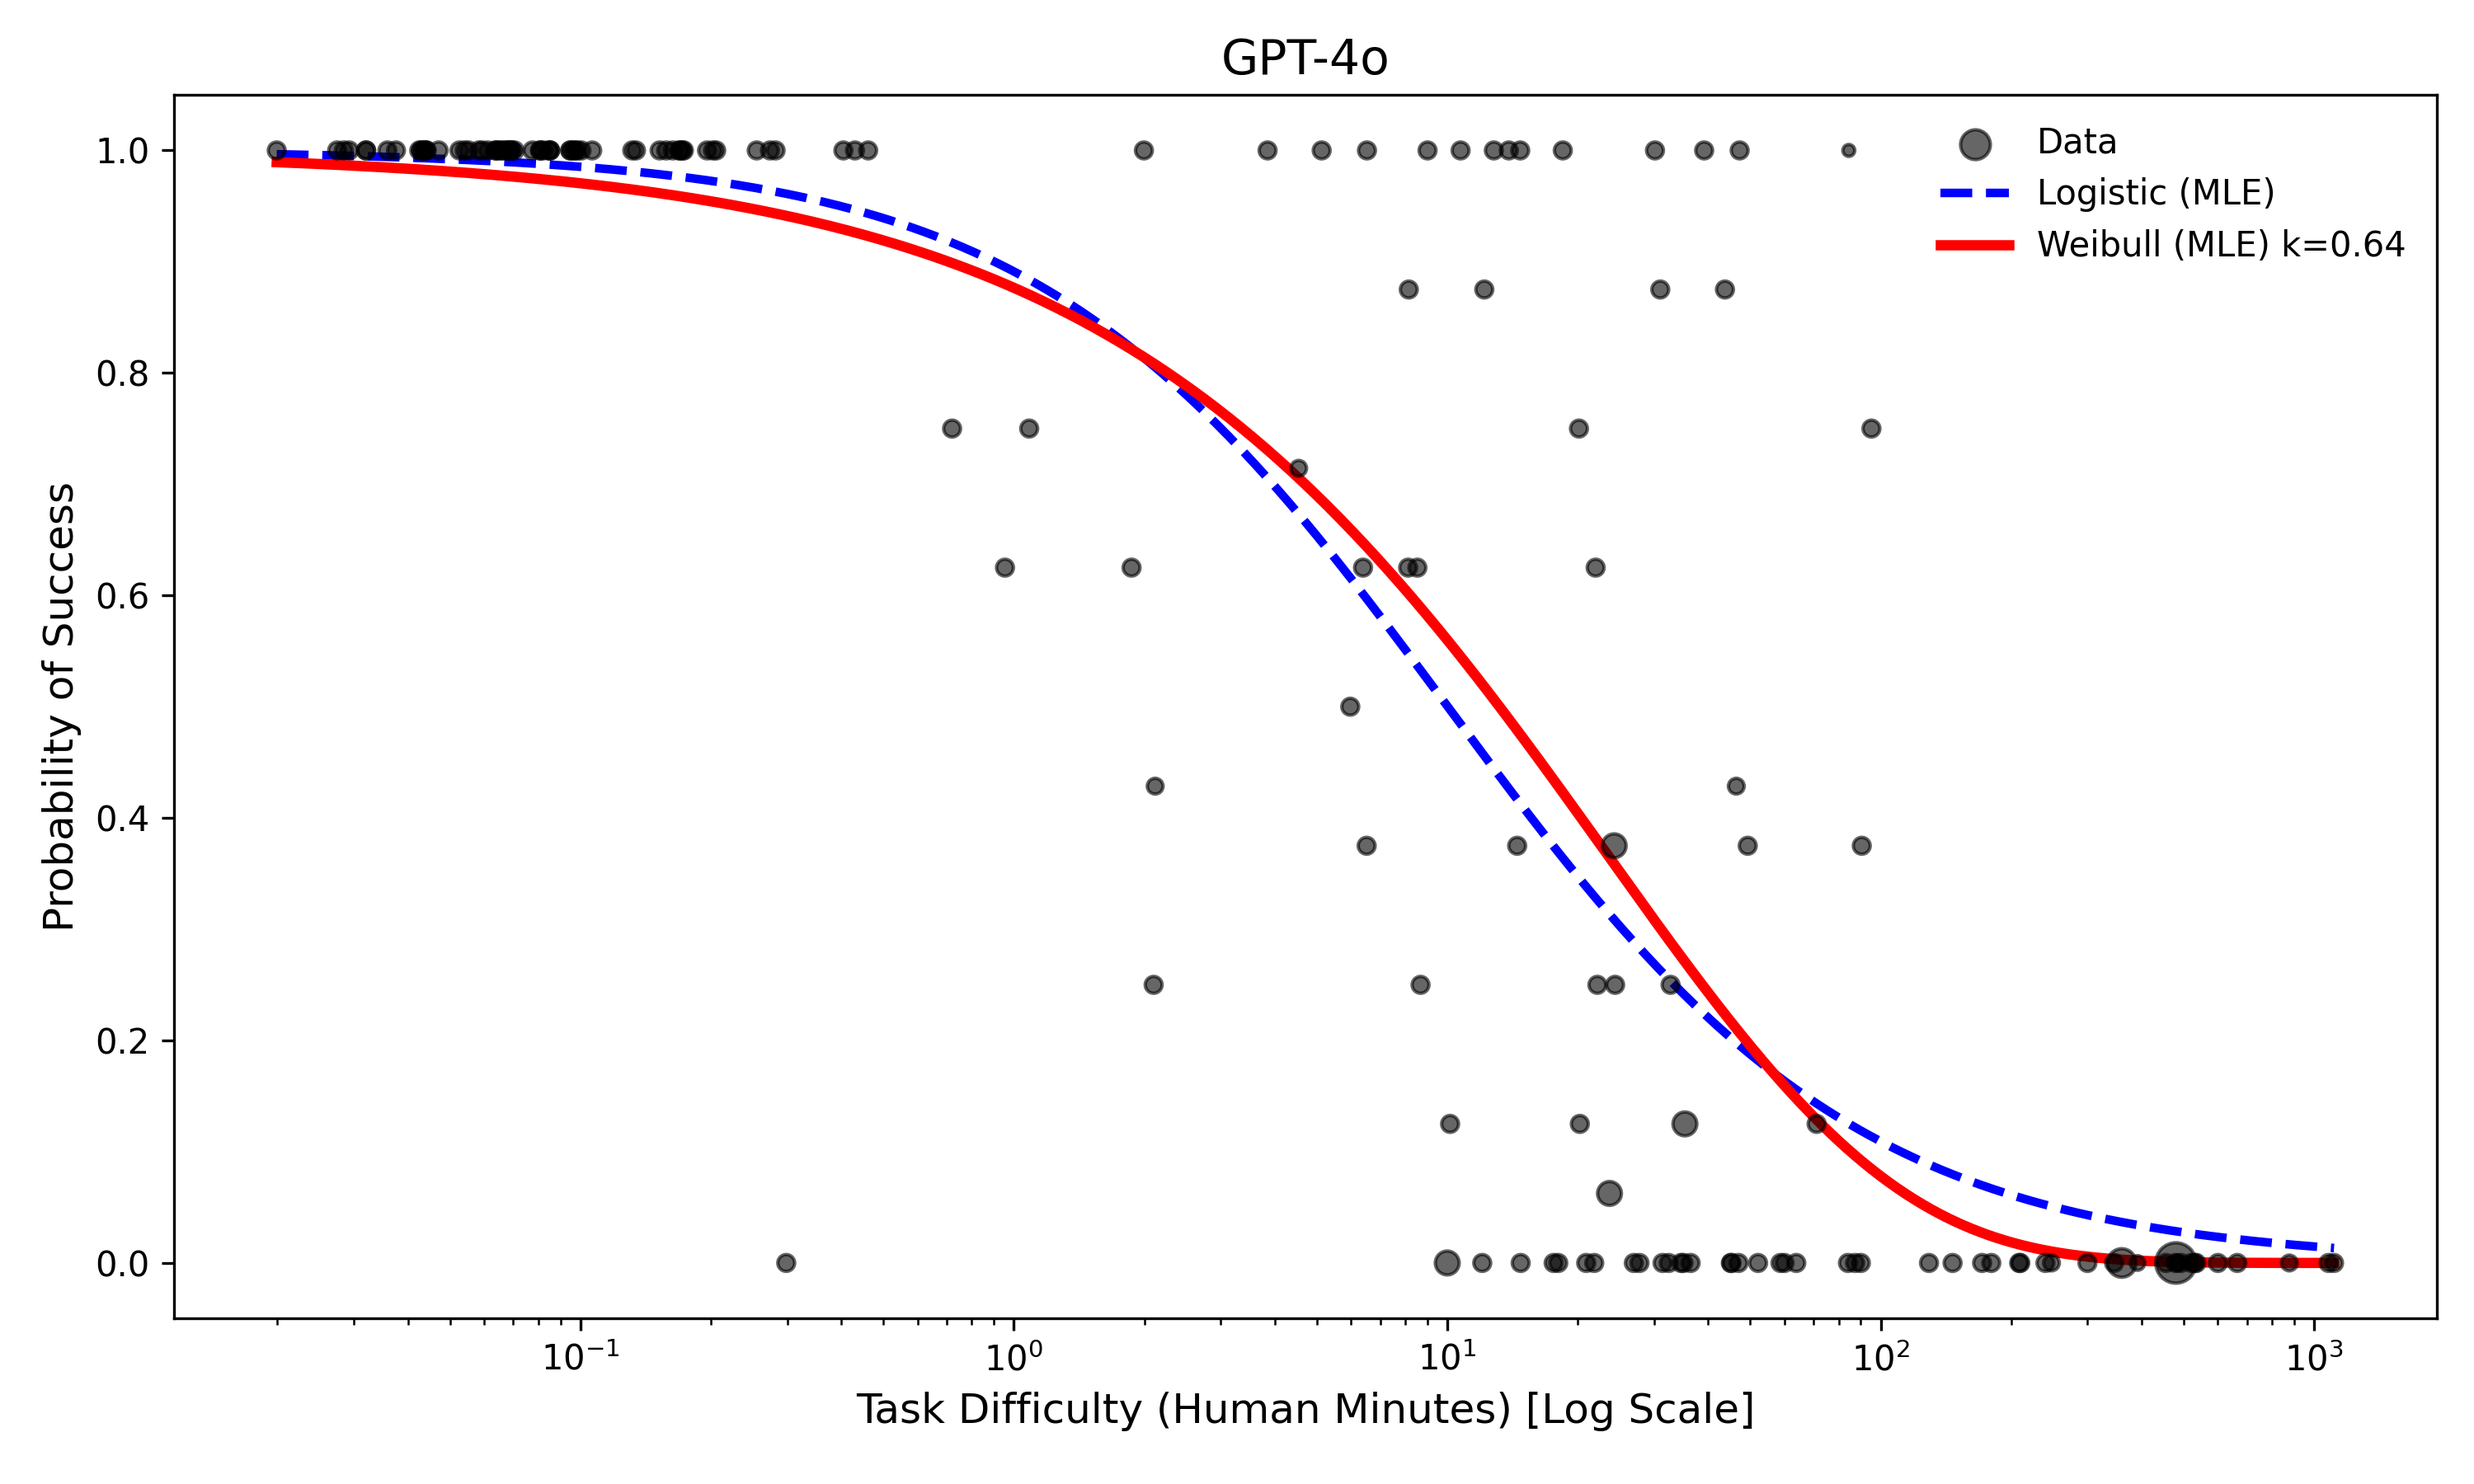
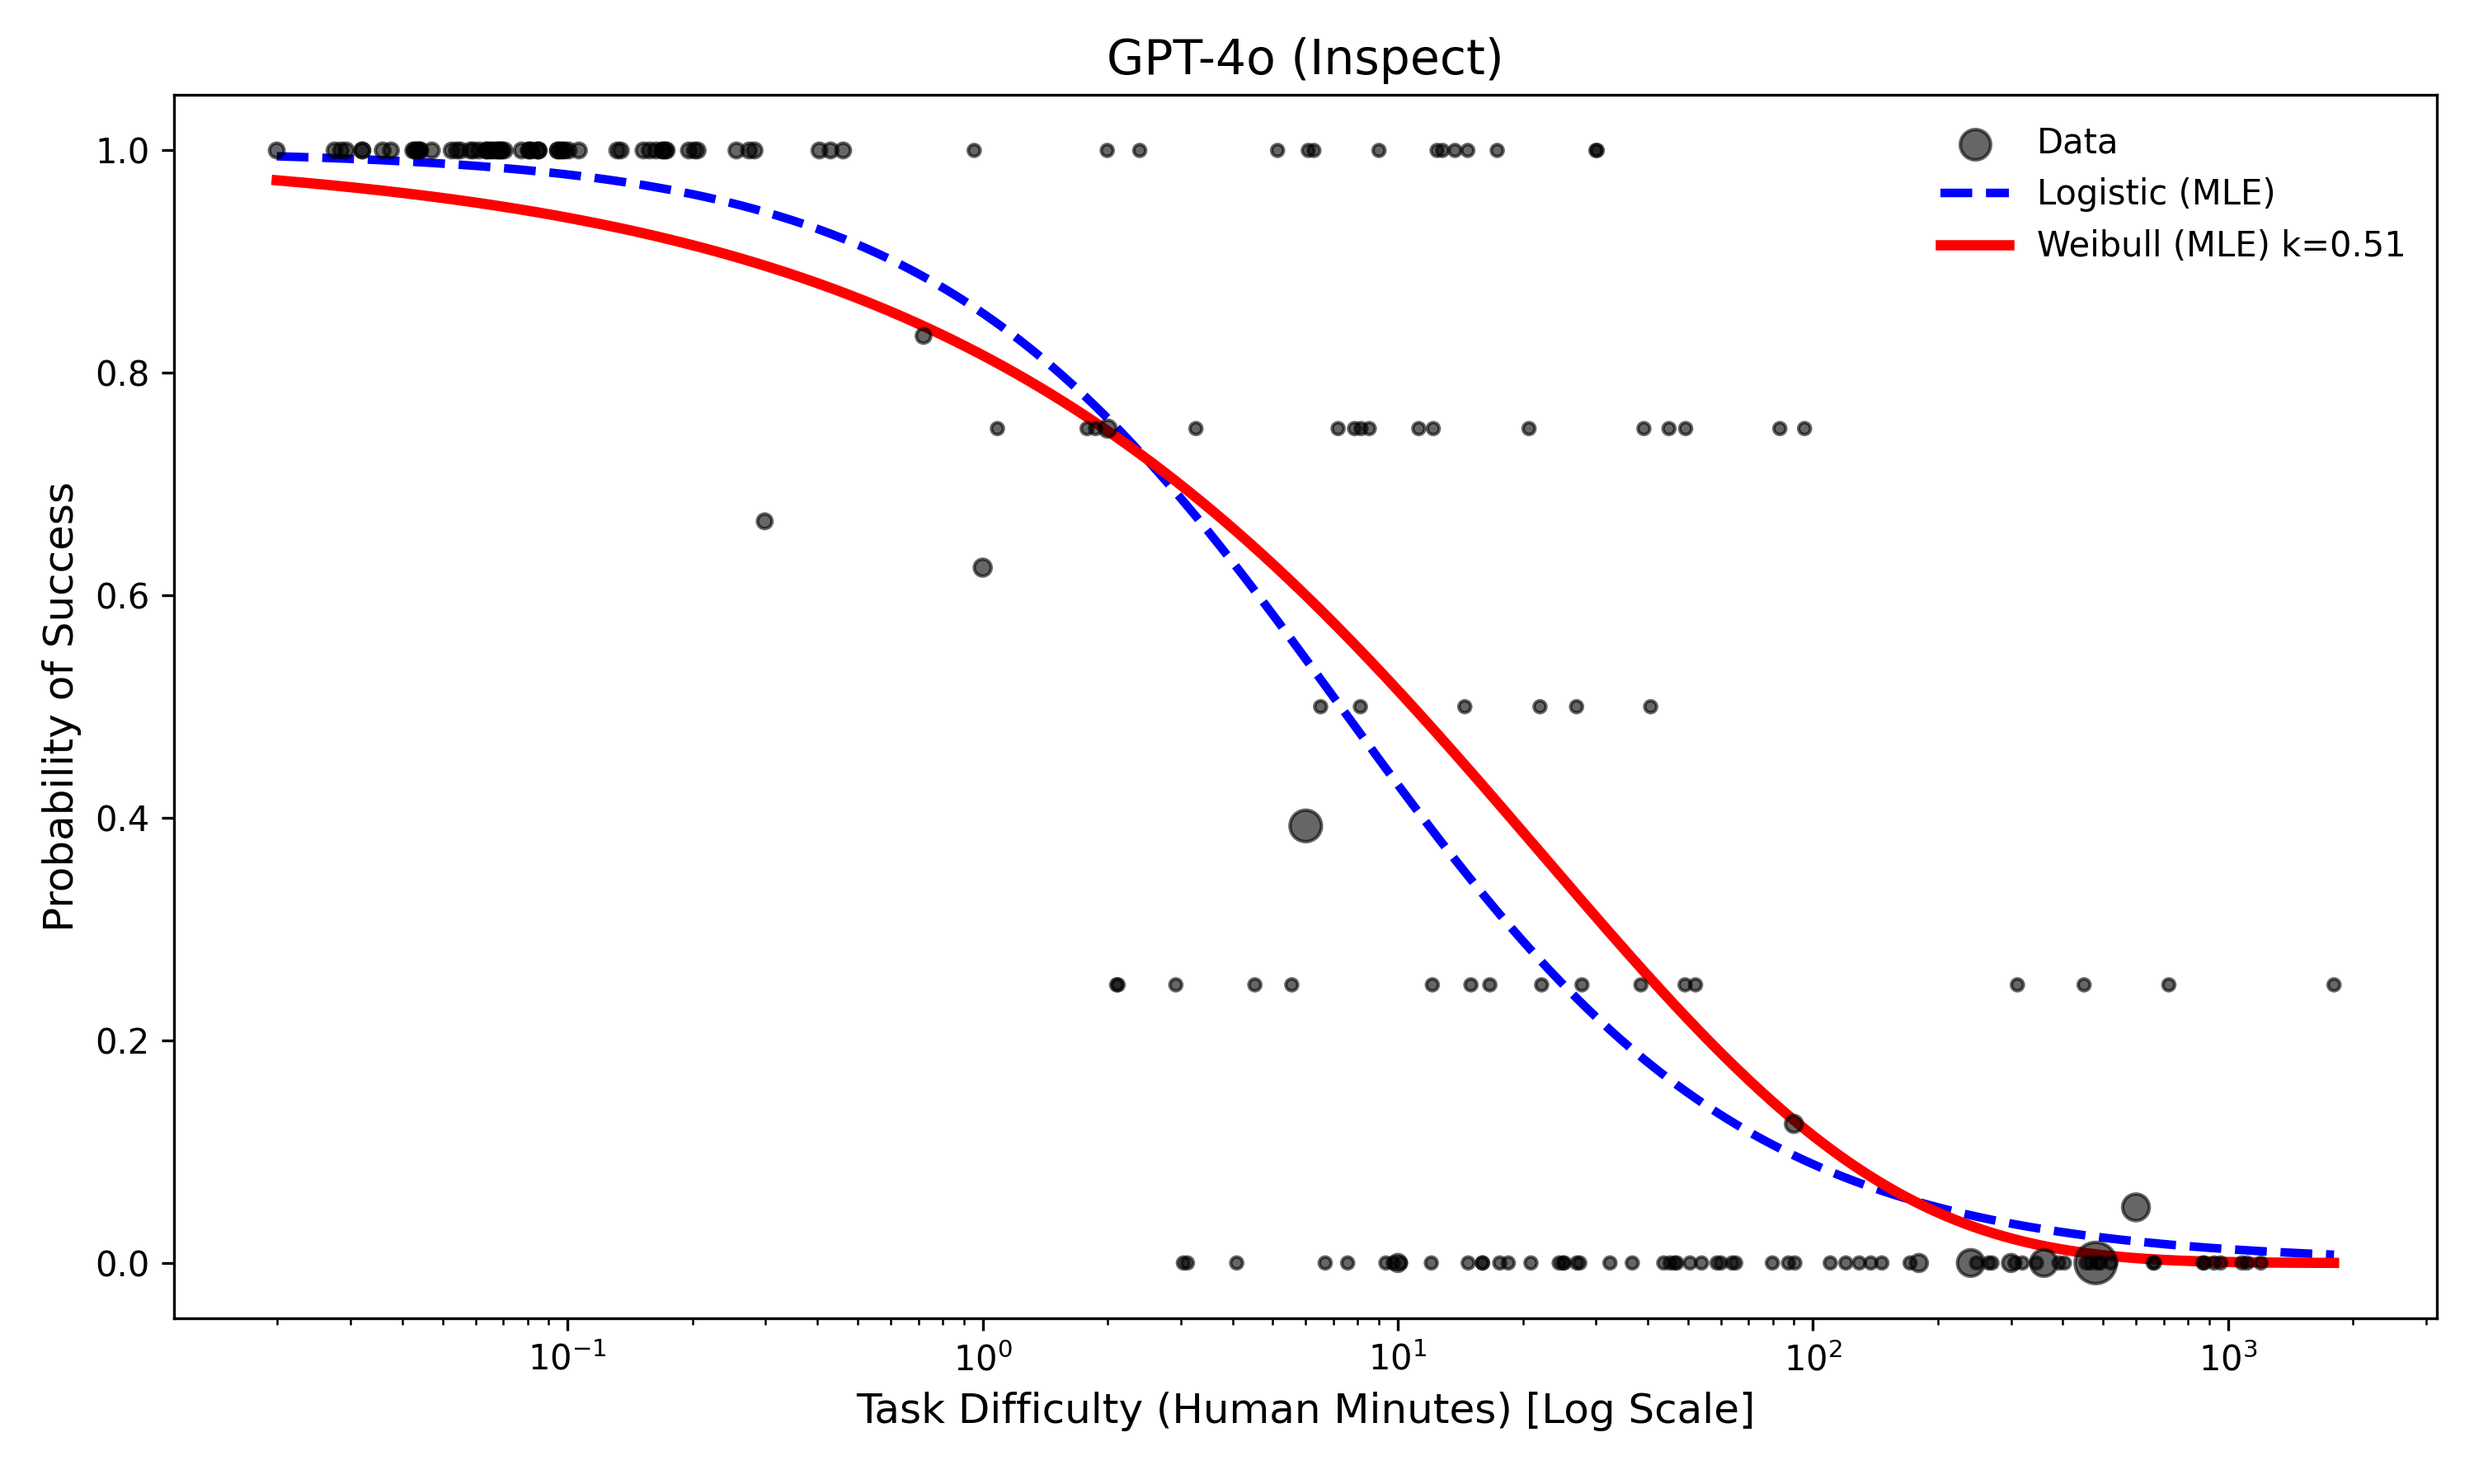
feat: Update blog post with new METR data (Feb 2026)
- Add update note about new METR data including Claude Opus
- Update all figures (Figure1-7) with latest analysis
- Note that GPT-5 and Opus hazard parameters now similar to humans

diff --git a/_posts/2026-01-23-petos-paradox-ai-agents.md b/_posts/2026-01-23-petos-paradox-ai-agents.md
@@ -7,6 +7,8 @@ date: 2026-01-23
 
 *23 January 2026*
 
+> **3rd Feb update:** New METR data released. I reran all plots, including Claude Opus. No real changes to findings—both logistic and Weibull fits are pretty similar. One interesting finding is that the hazard parameters (κ) of GPT-5 and Opus now seem to be similar to humans, but the lambda is still lower in humans, suggesting that humans are able to error-correct better if we think these models are the best fit.
+
 ## Introduction
 
 [Richard Peto](https://en.wikipedia.org/wiki/Peto%27s_paradox) observed an interesting paradox. He noted that cancer incidence does not scale linearly with body size or lifespan. A blue whale has a thousand times more cells than a human and lives significantly longer, yet it does not succumb to cancer at a thousand times the rate. If it did, it would die before reaching maturity.
